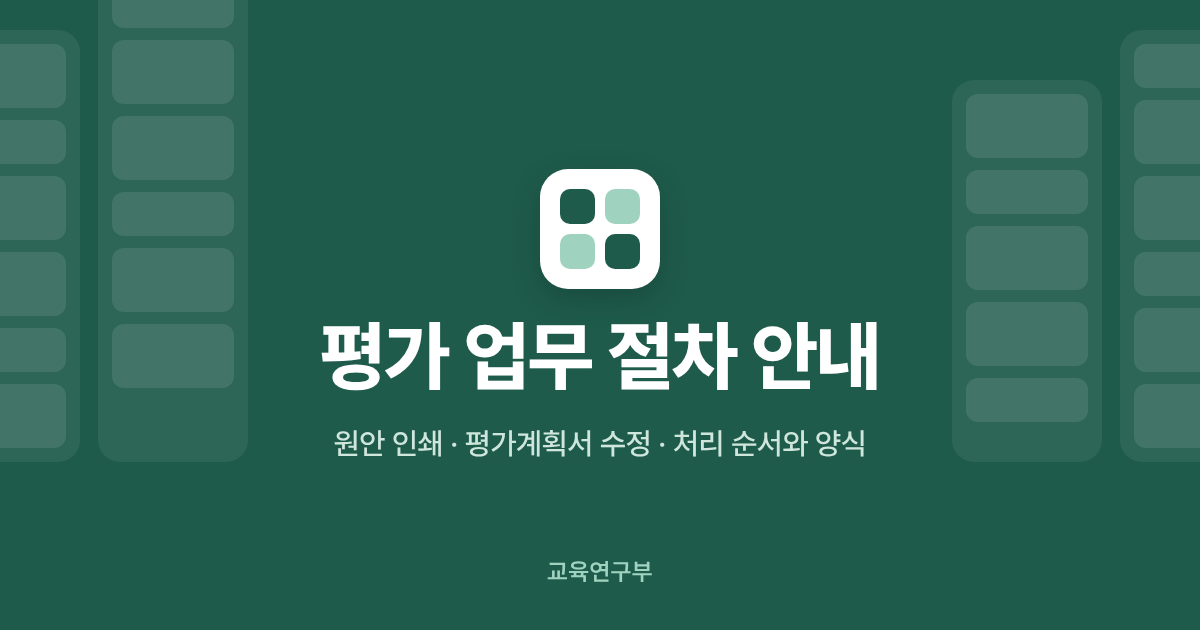
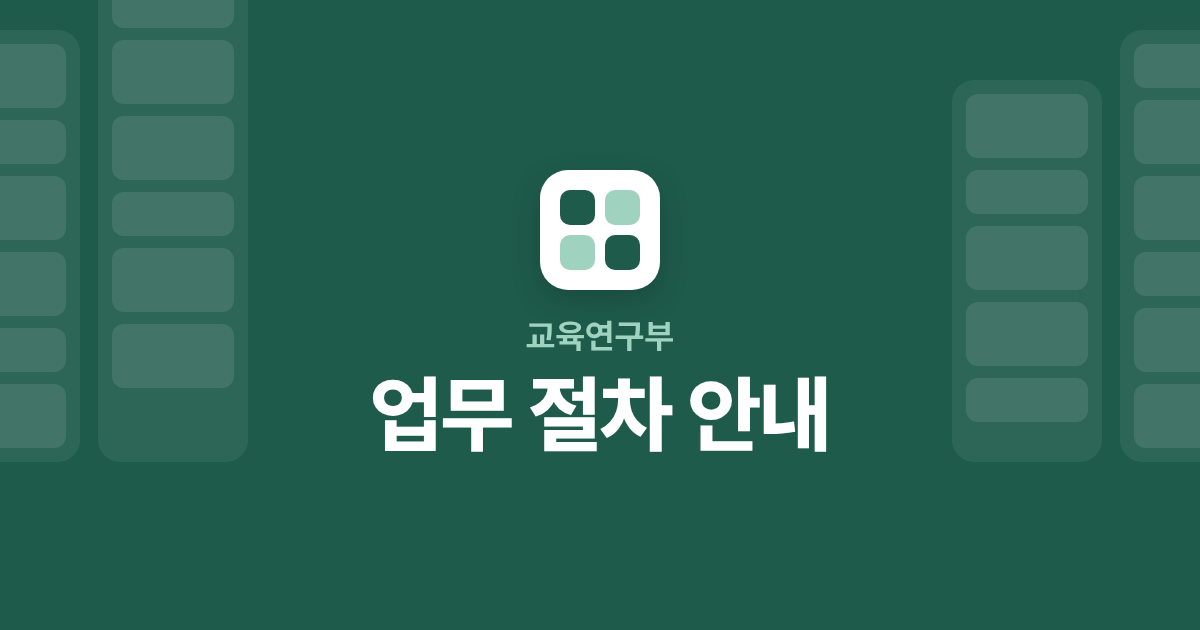
Add files via upload

Changed region(s): [[0.2467, 0.5127, 0.74, 0.7238], [0.4625, 0.8746, 0.555, 0.9349]]

diff --git a/index.html b/index.html
@@ -3,18 +3,18 @@
 <head>
 <meta charset="utf-8">
 <meta name="viewport" content="width=device-width, initial-scale=1">
-<title>평가 업무 절차 안내</title>
+<title>교육연구부 업무 절차 안내</title>
 <!-- 메신저 미리보기 -->
-<meta name="description" content="교육연구부">
+<meta name="description" content="업무 처리 순서와 관련 양식">
 <meta property="og:type" content="website">
 <meta property="og:locale" content="ko_KR">
 <meta property="og:url" content="https://newla0810.github.io/eval-guide/">
-<meta property="og:title" content="평가 업무 절차 안내">
-<meta property="og:description" content="교육연구부">
+<meta property="og:title" content="교육연구부 업무 절차 안내">
+<meta property="og:description" content="업무 처리 순서와 관련 양식">
 <meta property="og:image" content="https://newla0810.github.io/eval-guide/og.png">
 <meta property="og:image:width" content="1200">
 <meta property="og:image:height" content="630">
-<meta property="og:image:alt" content="평가 업무 절차 안내">
+<meta property="og:image:alt" content="교육연구부 업무 절차 안내">
 <meta name="twitter:card" content="summary_large_image">
 <!-- 파비콘: 탭 아이콘(PNG·SVG)과 휴대폰 홈 화면 아이콘 -->
[1 lines of base64/hex data omitted]
@@ -151,7 +151,7 @@ main{padding-top:24px;padding-bottom:64px}
     <label class="search">
       <svg aria-hidden="true" width="18" height="18" viewBox="0 0 24 24" fill="none" stroke="#5A635F" stroke-width="2" stroke-linecap="round" stroke-linejoin="round"><circle cx="11" cy="11" r="7"></circle><path d="M20 20l-3.5-3.5"></path></svg>
       <span class="sr">절차 검색</span>
-      <input id="q" type="search" placeholder="절차 찾기 (예: 원안, 인정점)" autocomplete="off">
+      <input id="q" type="search" placeholder="절차 찾기 (예: 원안, 방과후)" autocomplete="off">
     </label>
   </div>
 </header>
@@ -199,10 +199,11 @@ main{padding-top:24px;padding-bottom:64px}
 var CONFIG = {
   SHEET_ID: '1VJy55UPSzgytwggHHJR2spY9HRSRi17R25a02dVde-0',      // 시트 주소 /d/ 와 /edit 사이의 긴 문자열
   API_KEY:  'AIzaSyDEUonciGeUrkMKmxXT-Zm90Dt2BMljgi8',
-  TITLE:  '평가 업무 절차 안내',
+  PAGE_TITLE: '교육연구부 업무 절차 안내',   // 브라우저 탭 제목
+  TITLE:  '업무 절차 안내',              // 페이지 머리 큰 제목
   DEPT:   '교육연구부',
   HINT:   '카드를 누르면 처리 순서와 관련 파일이 열립니다.',
-  FOOTER: '내용이 실제와 다르면 교육연구부로 알려 주세요.',
+  FOOTER: '',                           // 맨 아래 문구 (비우면 안 보임)
   RECENT_DAYS: 14,                  // 이 기간 안에 고친 절차에 '최근 수정' 표시
   SHEET_PROC: '절차',
   SHEET_CAT:  '분류'
@@ -522,7 +523,7 @@ var CONFIG = {
   }
 
   function renderHeader() {
-    document.title = CONFIG.TITLE;
+    document.title = CONFIG.PAGE_TITLE || CONFIG.TITLE;
     $('dept').textContent = [CONFIG.DEPT, model.updated ? '최종 수정 ' + model.updated : ''].filter(Boolean).join(' · ');
     $('title').textContent = CONFIG.TITLE;
     $('hint').textContent = CONFIG.HINT || '';
